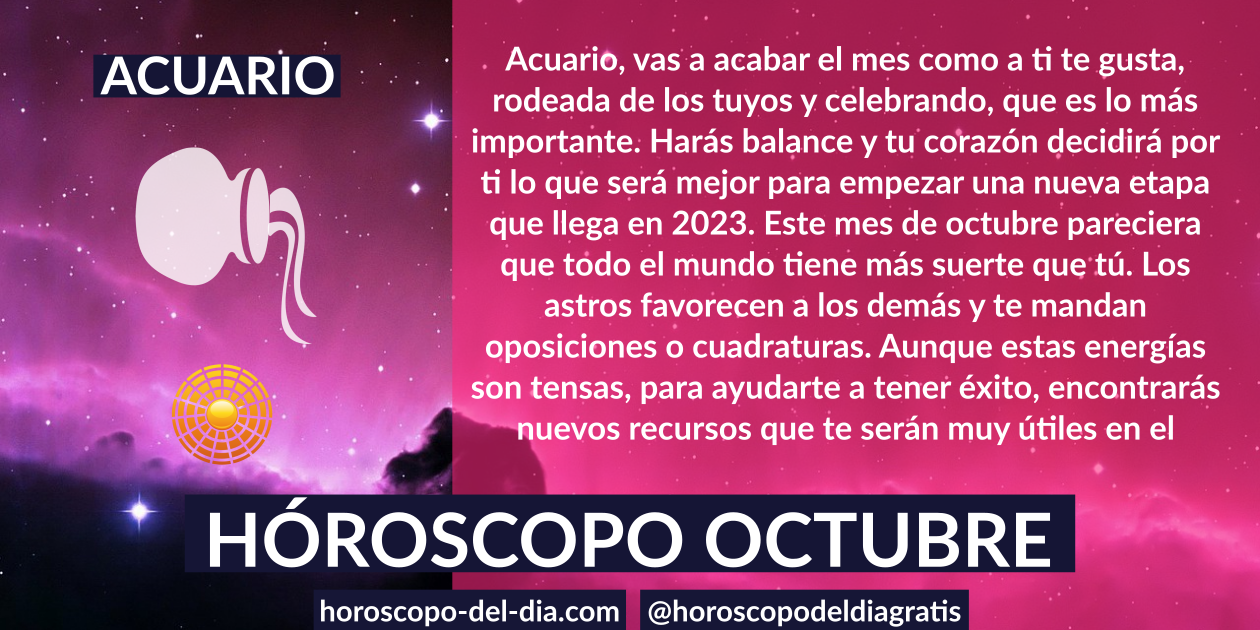
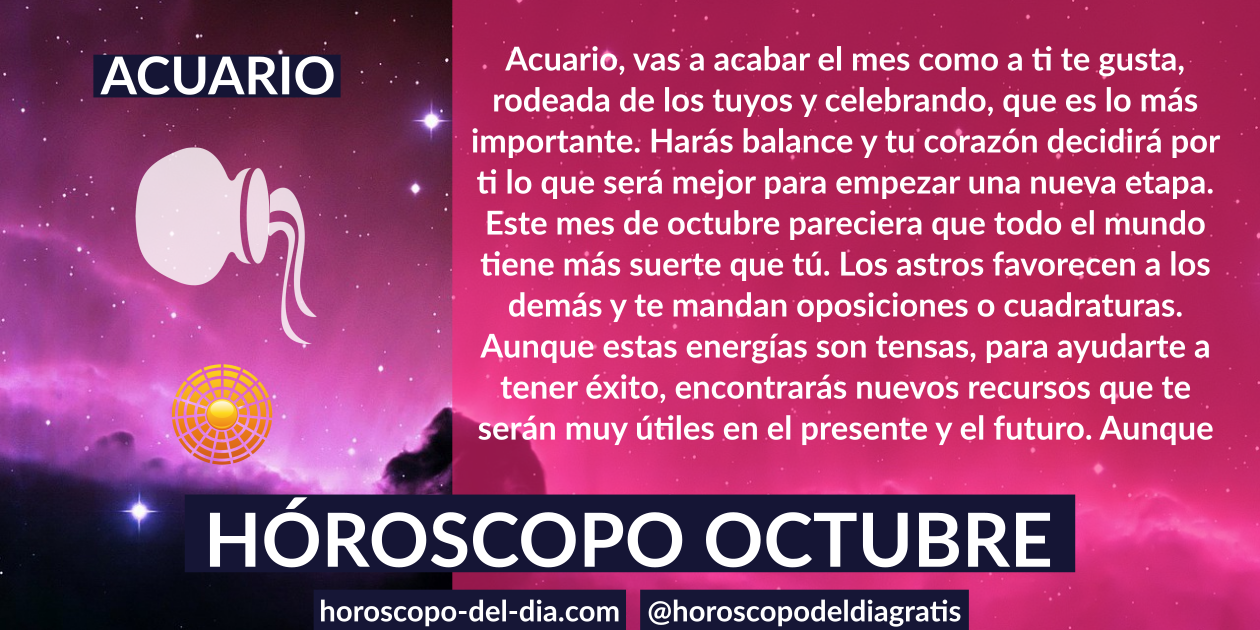
cfg

Changed region(s): [[0.3714, 0.2714, 0.9595, 0.573], [0.3714, 0.6635, 0.9595, 0.7238], [0.3714, 0.6032, 0.9905, 0.6333]]

diff --git a/mensual/acuario.md b/mensual/acuario.md
@@ -9,19 +9,19 @@ keywords: horóscopo octubre, horoscopos en español, horóscopo Acuario octubre
 horoscopo:
  signo: acuario
  video: -DQpmrrAIeU
-ogimg: /images/mes/acuario_mes.png#2024-09-27
+ogimg: /images/mes/acuario_mes.png#2024-10-01
 sitemap:
  priority: 1
  changefreq: 'monthly'
- lastmod: '2024-09-27'
+ lastmod: '2024-10-01'
 ---
 
 
- > Acuario, vas a acabar el mes como a ti te gusta, rodeada de los tuyos y celebrando, que es lo más importante. Harás balance y tu corazón decidirá por ti lo que será mejor para empezar una nueva etapa que llega en 2023. Este mes de octubre pareciera que todo el mundo tiene más suerte que tú. Los astros favorecen a los demás y te mandan oposiciones o cuadraturas. Aunque estas energías son tensas, para ayudarte a tener éxito, encontrarás nuevos recursos que te serán muy útiles en el presente y el futuro. Aunque en un principio no te lo parezca, te ayudarán.
+ > Acuario, vas a acabar el mes como a ti te gusta, rodeada de los tuyos y celebrando, que es lo más importante. Harás balance y tu corazón decidirá por ti lo que será mejor para empezar una nueva etapa. Este mes de octubre pareciera que todo el mundo tiene más suerte que tú. Los astros favorecen a los demás y te mandan oposiciones o cuadraturas. Aunque estas energías son tensas, para ayudarte a tener éxito, encontrarás nuevos recursos que te serán muy útiles en el presente y el futuro. Aunque en un principio no te lo parezca, te ayudarán.
 
 
 
-octubrede 2024 - Te sentirás inspirado para hacer del mundo un lugar mejor, querido Acuario, ya que la estación de Tauro ilumina el sector de tu carta que rige la comunidad.
+Te sentirás inspirado para hacer del mundo un lugar mejor, querido Acuario, ya que la estación de Tauro ilumina el sector de tu carta que rige la comunidad.
 Sin embargo, podrían surgir problemas si te bombardeas con noticias trágicas e información decepcionante, por lo que es importante que en su lugar te centres en formas pequeñas y constructivas de marcar la diferencia. Durante el eclipse solar anular, el 2 de octubre, tómese un descanso y permítase divertirse, reunirse con su mejor amigo o trabajar en un proyecto apasionante.
 Sentirá un cambio cuando el armonioso Venus entre en su signo el día siete, poniéndole de humor para la paz y el romance. Además de iluminar tu aura con un poco de brillo extra, el Universo elevará tus habilidades de manifestación, así que no tengas miedo de luchar por tus esperanzas y sueños.
 Mientras tanto, Mercurio termina su reinado retrógrado de terror el 14 de octubre, despejando nuevos caminos para ti socialmente y en tu presencia en línea. Espera que tu red de contactos crezca significativamente cuando Júpiter entre en Tauro el 16 de octubre. El apasionado Marte entra en el ardiente Leo el 20 de octubre, impulsándote a perseguir objetivos financieros durante las próximas semanas. El esfuerzo que realice en este momento seguramente tendrá una recompensa monetaria, así que trate de recordar que el Universo no suele recompensar la pereza.

diff --git a/mensual/escorpio.md b/mensual/escorpio.md
@@ -9,11 +9,11 @@ keywords: horóscopo octubre, horoscopos en español, horóscopo Escorpio octubr
 horoscopo:
  signo: escorpio
  video: -DQpmrrAIeU
-ogimg: /images/mes/escorpio_mes.png#2024-09-27
+ogimg: /images/mes/escorpio_mes.png#2024-10-01
 sitemap:
  priority: 1
  changefreq: 'monthly'
- lastmod: '2024-09-27'
+ lastmod: '2024-10-01'
 ---
 
 
@@ -21,7 +21,7 @@ sitemap:
 
 
 
-octubrede 2024 - Puede que este mes te encuentres recorriendo un nuevo camino espiritual, querido Escorpio, ya que Júpiter y el Nodo Norte se alinean el 1 de octubre. Haz todo lo posible por aprovechar la energía que fluye a través de ti y a tu alrededor, porque hacerlo te proporcionará momentos de iluminación que pueden ayudarte a guiarte hacia un mañana mejor. Esté atento a las señales y sincronicidades cuando Mercurio se alinee con Urano el 4 de octubre. Podrían desencadenar descargas psíquicas, epifanías profundas y mensajes del más allá.
+Puede que este mes te encuentres recorriendo un nuevo camino espiritual, querido Escorpio, ya que Júpiter y el Nodo Norte se alinean el 1 de octubre. Haz todo lo posible por aprovechar la energía que fluye a través de ti y a tu alrededor, porque hacerlo te proporcionará momentos de iluminación que pueden ayudarte a guiarte hacia un mañana mejor. Esté atento a las señales y sincronicidades cuando Mercurio se alinee con Urano el 4 de octubre. Podrían desencadenar descargas psíquicas, epifanías profundas y mensajes del más allá.
 Podrías sentir que tu corazón se cierra cuando Venus entre en Leo el 5 de octubre, especialmente si has estado trabajando para superar un dolor o una pena. Esta colocación planetaria tiene que ver con tomarse el tiempo necesario para procesar emociones o disgustos, acercándose a lugares sensibles de su mente desde un lugar de profunda compasión y amor propio. Por suerte, te resultará más fácil centrarte en el presente y establecer nuevos límites o barandillas para ti cuando Mercurio entre en Géminis el día 11, activando tu décima casa solar. Esta energía también es ideal para esbozar estrategias profesionales, proporcionándote una distracción muy necesaria.
 El verano hace su debut cuando el Sol migra hacia el sensible Escorpio el 24 de octubre, ayudándote a sentirte más conectado y en sintonía con tu comunidad. El intercambio emocional se producirá con facilidad en este momento, siendo la ocasión perfecta para unirse a una sesión de meditación, una clase de interés especial o un grupo de apoyo. Recuerda que no tienes que moverte solo por esta vida, especialmente cuando Mercurio se mueva al signo del Cangrejo el día veintiséis, instándote a compartir lo que hay en tu corazón.
 Días destacados: 9, 17, 27

diff --git a/_amp/escorpio_mensual.md b/_amp/escorpio_mensual.md
@@ -7,15 +7,15 @@ home: FALSE
 horoscopo:
  signo: escorpio
  video: -DQpmrrAIeU
-ogimg: /images/mes/Escorpio_mes.png#2024-09-27
+ogimg: /images/mes/Escorpio_mes.png#2024-10-01
 sitemap:
  priority: 1
  changefreq: 'monthly'
- lastmod: '2024-09-27'
+ lastmod: '2024-10-01'
 ---
 
 
-octubrede 2024 - Puede que este mes te encuentres recorriendo un nuevo camino espiritual, querido Escorpio, ya que Júpiter y el Nodo Norte se alinean el 1 de octubre. Haz todo lo posible por aprovechar la energía que fluye a través de ti y a tu alrededor, porque hacerlo te proporcionará momentos de iluminación que pueden ayudarte a guiarte hacia un mañana mejor. Esté atento a las señales y sincronicidades cuando Mercurio se alinee con Urano el 4 de octubre. Podrían desencadenar descargas psíquicas, epifanías profundas y mensajes del más allá.
+Puede que este mes te encuentres recorriendo un nuevo camino espiritual, querido Escorpio, ya que Júpiter y el Nodo Norte se alinean el 1 de octubre. Haz todo lo posible por aprovechar la energía que fluye a través de ti y a tu alrededor, porque hacerlo te proporcionará momentos de iluminación que pueden ayudarte a guiarte hacia un mañana mejor. Esté atento a las señales y sincronicidades cuando Mercurio se alinee con Urano el 4 de octubre. Podrían desencadenar descargas psíquicas, epifanías profundas y mensajes del más allá.
 Podrías sentir que tu corazón se cierra cuando Venus entre en Leo el 5 de octubre, especialmente si has estado trabajando para superar un dolor o una pena. Esta colocación planetaria tiene que ver con tomarse el tiempo necesario para procesar emociones o disgustos, acercándose a lugares sensibles de su mente desde un lugar de profunda compasión y amor propio. Por suerte, te resultará más fácil centrarte en el presente y establecer nuevos límites o barandillas para ti cuando Mercurio entre en Géminis el día 11, activando tu décima casa solar. Esta energía también es ideal para esbozar estrategias profesionales, proporcionándote una distracción muy necesaria.
 El verano hace su debut cuando el Sol migra hacia el sensible Escorpio el 24 de octubre, ayudándote a sentirte más conectado y en sintonía con tu comunidad. El intercambio emocional se producirá con facilidad en este momento, siendo la ocasión perfecta para unirse a una sesión de meditación, una clase de interés especial o un grupo de apoyo. Recuerda que no tienes que moverte solo por esta vida, especialmente cuando Mercurio se mueva al signo del Cangrejo el día veintiséis, instándote a compartir lo que hay en tu corazón.
 Días destacados: 9, 17, 27

diff --git a/mensual/cancer.md b/mensual/cancer.md
@@ -9,11 +9,11 @@ keywords: horóscopo octubre, horoscopos en español, horóscopo Cáncer octubre
 horoscopo:
  signo: cancer
  video: -DQpmrrAIeU
-ogimg: /images/mes/cancer_mes.png#2024-09-27
+ogimg: /images/mes/cancer_mes.png#2024-10-01
 sitemap:
  priority: 1
  changefreq: 'monthly'
- lastmod: '2024-09-27'
+ lastmod: '2024-10-01'
 ---
 
 
@@ -21,7 +21,7 @@ sitemap:
 
 
 
-octubrede 2024 - El amor estará en primer plano en tu mente al comenzar el nuevo mes, querido Cáncer, ya que cuatro cuerpos celestes están transitando por el sector de tu carta astral que rige los asuntos del corazón. Ya sea que estés viviendo tu soltería o en una relación, puede que quieras considerar pensar resoluciones sobre cómo nutrir sanas y alentadoras relaciones en el futuro. Sin embargo, estos sentimientos aplican a todos tus vínculos cercanos, ya sean románticos o platónicos.
+El amor estará en primer plano en tu mente al comenzar el nuevo mes, querido Cáncer, ya que cuatro cuerpos celestes están transitando por el sector de tu carta astral que rige los asuntos del corazón. Ya sea que estés viviendo tu soltería o en una relación, puede que quieras considerar pensar resoluciones sobre cómo nutrir sanas y alentadoras relaciones en el futuro. Sin embargo, estos sentimientos aplican a todos tus vínculos cercanos, ya sean románticos o platónicos.
 Sentirás una explosión de energía cósmica rodeándote durante el eclipse solar anular el 2 de octubre. Es de esperar que te invada más sinceridad y sensibilidad que de costumbre, lo que puede ser bueno o malo, dependiendo de tu situación. Toma nota de cualquier persona o cosa que debilite tus vibras durante este tiempo, porque podría ser un codazo del universo diciéndote que es tiempo de cambiar de aire. A fin de cuentas, este inspirador evento tiene que ver con priorizar tus necesidades.
 La energía cambia cuando el sol ingresa a Escorpio y al sector de tu carta astral que rige la transformación el día 24. Si la luna llena te dio entendimiento sobre cómo debe evolucionar tu vida, esta posición solar te brinda la energía y la motivación para llevar a cabo estos cambios. Sin embargo, estas vibras son algo impredecibles, por lo que puede que no siempre puedas controlar lo que se queda en tu órbita y lo que se va. Pero deberías evitar sobrecargarte para luchar por relaciones o situaciones que te hagan sentir sin energía.
 Días destacados: 12, 18, 21

diff --git a/_amp/cancer_mensual.md b/_amp/cancer_mensual.md
@@ -7,15 +7,15 @@ home: FALSE
 horoscopo:
  signo: cancer
  video: -DQpmrrAIeU
-ogimg: /images/mes/Cáncer_mes.png#2024-09-27
+ogimg: /images/mes/Cáncer_mes.png#2024-10-01
 sitemap:
  priority: 1
  changefreq: 'monthly'
- lastmod: '2024-09-27'
+ lastmod: '2024-10-01'
 ---
 
 
-octubrede 2024 - El amor estará en primer plano en tu mente al comenzar el nuevo mes, querido Cáncer, ya que cuatro cuerpos celestes están transitando por el sector de tu carta astral que rige los asuntos del corazón. Ya sea que estés viviendo tu soltería o en una relación, puede que quieras considerar pensar resoluciones sobre cómo nutrir sanas y alentadoras relaciones en el futuro. Sin embargo, estos sentimientos aplican a todos tus vínculos cercanos, ya sean románticos o platónicos.
+El amor estará en primer plano en tu mente al comenzar el nuevo mes, querido Cáncer, ya que cuatro cuerpos celestes están transitando por el sector de tu carta astral que rige los asuntos del corazón. Ya sea que estés viviendo tu soltería o en una relación, puede que quieras considerar pensar resoluciones sobre cómo nutrir sanas y alentadoras relaciones en el futuro. Sin embargo, estos sentimientos aplican a todos tus vínculos cercanos, ya sean románticos o platónicos.
 Sentirás una explosión de energía cósmica rodeándote durante el eclipse solar anular el 2 de octubre. Es de esperar que te invada más sinceridad y sensibilidad que de costumbre, lo que puede ser bueno o malo, dependiendo de tu situación. Toma nota de cualquier persona o cosa que debilite tus vibras durante este tiempo, porque podría ser un codazo del universo diciéndote que es tiempo de cambiar de aire. A fin de cuentas, este inspirador evento tiene que ver con priorizar tus necesidades.
 La energía cambia cuando el sol ingresa a Escorpio y al sector de tu carta astral que rige la transformación el día 24. Si la luna llena te dio entendimiento sobre cómo debe evolucionar tu vida, esta posición solar te brinda la energía y la motivación para llevar a cabo estos cambios. Sin embargo, estas vibras son algo impredecibles, por lo que puede que no siempre puedas controlar lo que se queda en tu órbita y lo que se va. Pero deberías evitar sobrecargarte para luchar por relaciones o situaciones que te hagan sentir sin energía.
 Días destacados: 12, 18, 21

diff --git a/_amp/acuario_mensual.md b/_amp/acuario_mensual.md
@@ -7,15 +7,15 @@ home: FALSE
 horoscopo:
  signo: acuario
  video: -DQpmrrAIeU
-ogimg: /images/mes/Acuario_mes.png#2024-09-27
+ogimg: /images/mes/Acuario_mes.png#2024-10-01
 sitemap:
  priority: 1
  changefreq: 'monthly'
- lastmod: '2024-09-27'
+ lastmod: '2024-10-01'
 ---
 
 
-octubrede 2024 - Te sentirás inspirado para hacer del mundo un lugar mejor, querido Acuario, ya que la estación de Tauro ilumina el sector de tu carta que rige la comunidad.
+Te sentirás inspirado para hacer del mundo un lugar mejor, querido Acuario, ya que la estación de Tauro ilumina el sector de tu carta que rige la comunidad.
 Sin embargo, podrían surgir problemas si te bombardeas con noticias trágicas e información decepcionante, por lo que es importante que en su lugar te centres en formas pequeñas y constructivas de marcar la diferencia. Durante el eclipse solar anular, el 2 de octubre, tómese un descanso y permítase divertirse, reunirse con su mejor amigo o trabajar en un proyecto apasionante.
 Sentirá un cambio cuando el armonioso Venus entre en su signo el día siete, poniéndole de humor para la paz y el romance. Además de iluminar tu aura con un poco de brillo extra, el Universo elevará tus habilidades de manifestación, así que no tengas miedo de luchar por tus esperanzas y sueños.
 Mientras tanto, Mercurio termina su reinado retrógrado de terror el 14 de octubre, despejando nuevos caminos para ti socialmente y en tu presencia en línea. Espera que tu red de contactos crezca significativamente cuando Júpiter entre en Tauro el 16 de octubre. El apasionado Marte entra en el ardiente Leo el 20 de octubre, impulsándote a perseguir objetivos financieros durante las próximas semanas. El esfuerzo que realice en este momento seguramente tendrá una recompensa monetaria, así que trate de recordar que el Universo no suele recompensar la pereza.

diff --git a/mensual/capricornio.md b/mensual/capricornio.md
@@ -9,11 +9,11 @@ keywords: horóscopo octubre, horoscopos en español, horóscopo Capricornio oct
 horoscopo:
  signo: capricornio
  video: -DQpmrrAIeU
-ogimg: /images/mes/capricornio_mes.png#2024-09-27
+ogimg: /images/mes/capricornio_mes.png#2024-10-01
 sitemap:
  priority: 1
  changefreq: 'monthly'
- lastmod: '2024-09-27'
+ lastmod: '2024-10-01'
 ---
 
 

diff --git a/_pages/mensual.md b/_pages/mensual.md
@@ -7,6 +7,6 @@ ogimg: /images/mensual.png
 sitemap:
  priority: 1
  changefreq: 'monthly'
- lastmod: 2024-09-27
+ lastmod: 2024-10-01
 ---
 ¿Quieres saber como sera tu mes? Enterate que tienen los astros preparado para vos y organiza tu mes según tu horóscopo mensual gratis. Elejí tu signo mas abajo y podrás conocer como es tu horóscopo del mes.

diff --git a/mensual/sagitario.md b/mensual/sagitario.md
@@ -9,11 +9,11 @@ keywords: horóscopo octubre, horoscopos en español, horóscopo Sagitario octub
 horoscopo:
  signo: sagitario
  video: -DQpmrrAIeU
-ogimg: /images/mes/sagitario_mes.png#2024-09-27
+ogimg: /images/mes/sagitario_mes.png#2024-10-01
 sitemap:
  priority: 1
  changefreq: 'monthly'
- lastmod: '2024-09-27'
+ lastmod: '2024-10-01'
 ---
 
 

diff --git a/mensual/geminis.md b/mensual/geminis.md
@@ -9,11 +9,11 @@ keywords: horóscopo octubre, horoscopos en español, horóscopo Géminis octubr
 horoscopo:
  signo: geminis
  video: -DQpmrrAIeU
-ogimg: /images/mes/geminis_mes.png#2024-09-27
+ogimg: /images/mes/geminis_mes.png#2024-10-01
 sitemap:
  priority: 1
  changefreq: 'monthly'
- lastmod: '2024-09-27'
+ lastmod: '2024-10-01'
 ---
 
 

diff --git a/mensual/piscis.md b/mensual/piscis.md
@@ -9,11 +9,11 @@ keywords: horóscopo octubre, horoscopos en español, horóscopo Piscis octubre 
 horoscopo:
  signo: piscis
  video: -DQpmrrAIeU
-ogimg: /images/mes/piscis_mes.png#2024-09-27
+ogimg: /images/mes/piscis_mes.png#2024-10-01
 sitemap:
  priority: 1
  changefreq: 'monthly'
- lastmod: '2024-09-27'
+ lastmod: '2024-10-01'
 ---
 
 

diff --git a/mensual/aries.md b/mensual/aries.md
@@ -9,11 +9,11 @@ keywords: horóscopo octubre, horoscopos en español, horóscopo Aries octubre ,
 horoscopo:
  signo: aries
  video: -DQpmrrAIeU
-ogimg: /images/mes/aries_mes.png#2024-09-27
+ogimg: /images/mes/aries_mes.png#2024-10-01
 sitemap:
  priority: 1
  changefreq: 'monthly'
- lastmod: '2024-09-27'
+ lastmod: '2024-10-01'
 ---
 
 
